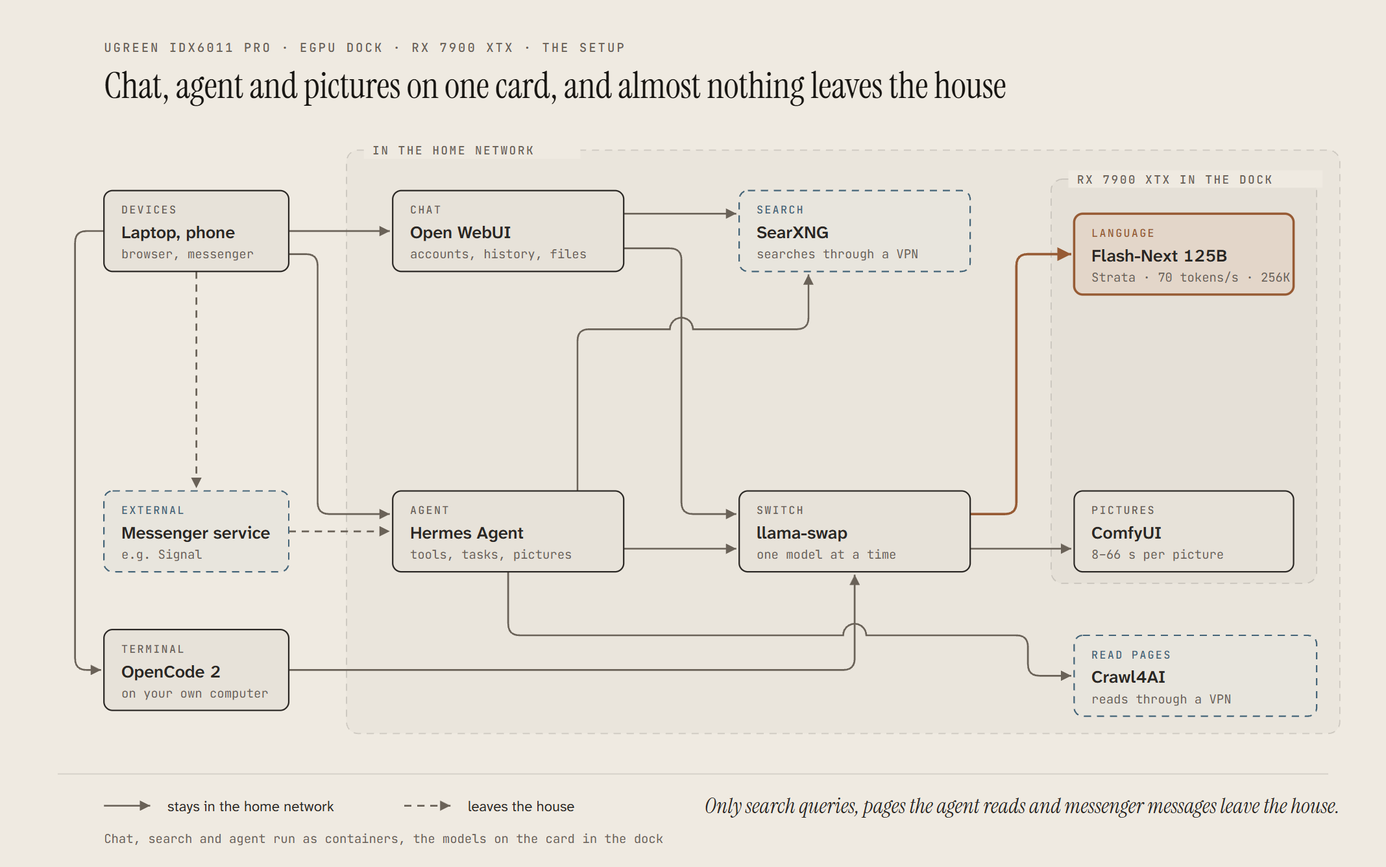
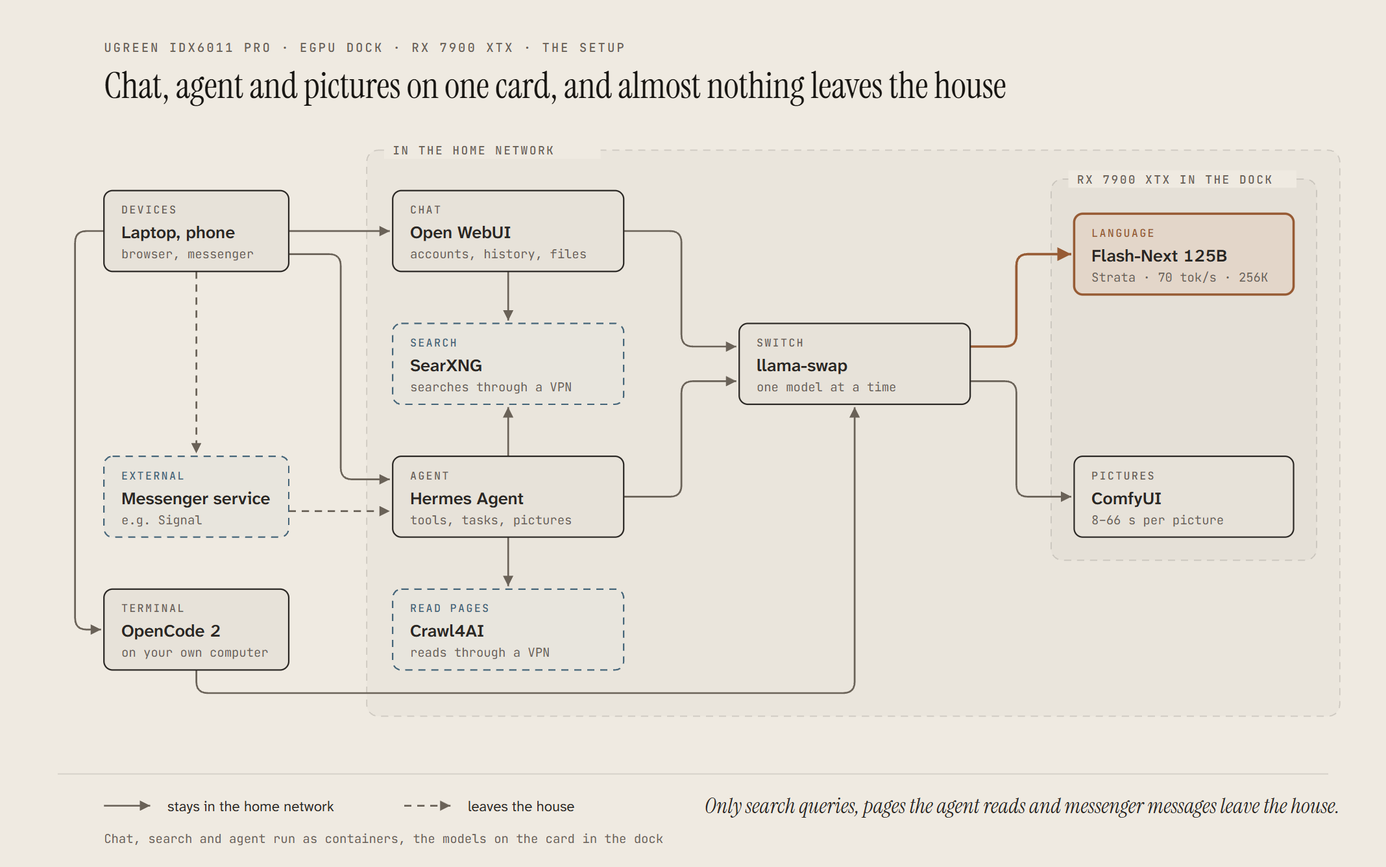
Setup chart redrawn on a grid: search and web reader sit next to the front ends that use them, no line crosses another

diff --git a/bilder/html/aufbau-en.html b/bilder/html/aufbau-en.html
@@ -23,75 +23,75 @@
       <text x="72.0" y="36.0" fill="#6a6258" font-size="8.5" font-family="'JetBrains Mono', Consolas, monospace" font-weight="500" letter-spacing="0.16em">UGREEN IDX6011 PRO · EGPU DOCK · RX 7900 XTX · THE SETUP</text>
       <text x="72.0" y="68.0" fill="#171512" font-size="25" font-family="'Instrument Serif', Georgia, serif">Chat, agent and pictures on one card, and almost nothing leaves the house</text>
       <defs><marker id="pf-en" markerWidth="8" markerHeight="8" refX="7" refY="4" orient="auto"><path d="M1,1 L7,4 L1,7 z" fill="#6a6258"/></marker><marker id="pf-en-a" markerWidth="8" markerHeight="8" refX="7" refY="4" orient="auto"><path d="M1,1 L7,4 L1,7 z" fill="#975b34"/></marker></defs>
-      <rect x="240" y="104" width="688" height="404" rx="8" fill="#2a2724" fill-opacity="0.025" stroke="#2a2724" stroke-opacity="0.16" stroke-width="0.8" stroke-dasharray="5,4"/>
-      <rect x="252" y="98" width="150" height="12" fill="#efeae1"/>
-      <text x="258.0" y="107.0" fill="#6a6258" font-size="8" font-family="'JetBrains Mono', Consolas, monospace" font-weight="500" letter-spacing="0.14em">IN THE HOME NETWORK</text>
-      <rect x="728" y="124" width="184" height="280" rx="8" fill="#2a2724" fill-opacity="0.025" stroke="#2a2724" stroke-opacity="0.16" stroke-width="0.8" stroke-dasharray="5,4"/>
-      <rect x="740" y="118" width="176" height="12" fill="#efeae1"/>
+      <rect x="254" y="104" width="674" height="392" rx="8" fill="#2a2724" fill-opacity="0.025" stroke="#2a2724" stroke-opacity="0.16" stroke-width="0.8" stroke-dasharray="5,4"/>
+      <rect x="266" y="98" width="150" height="12" fill="#efeae1"/>
+      <text x="272.0" y="107.0" fill="#6a6258" font-size="8" font-family="'JetBrains Mono', Consolas, monospace" font-weight="500" letter-spacing="0.14em">IN THE HOME NETWORK</text>
+      <rect x="728" y="124" width="184" height="264" rx="8" fill="#2a2724" fill-opacity="0.025" stroke="#2a2724" stroke-opacity="0.16" stroke-width="0.8" stroke-dasharray="5,4"/>
+      <rect x="740" y="118" width="158" height="12" fill="#efeae1"/>
       <text x="746.0" y="127.0" fill="#6a6258" font-size="8" font-family="'JetBrains Mono', Consolas, monospace" font-weight="500" letter-spacing="0.14em">RX 7900 XTX IN THE DOCK</text>
       <path d="M 200,160 H 270" fill="none" stroke="#6a6258" stroke-width="1.2" marker-end="url(#pf-en)"/>
-      <path d="M 136,188 V 338" fill="none" stroke="#6a6258" stroke-width="1.2" stroke-dasharray="5,4" marker-end="url(#pf-en)"/>
-      <path d="M 200,176 H 212 Q 220,176 220,184 V 348 Q 220,356 228,356 H 270" fill="none" stroke="#6a6258" stroke-width="1.2" marker-end="url(#pf-en)"/>
-      <path d="M 200,368 H 270" fill="none" stroke="#6a6258" stroke-width="1.2" stroke-dasharray="5,4" marker-end="url(#pf-en)"/>
-      <path d="M 432,148 H 510" fill="none" stroke="#6a6258" stroke-width="1.2" marker-end="url(#pf-en)"/>
-      <path d="M 400,340 V 236 Q 400,228 408,228 H 464 a 8,8 0 0,1 16,0 H 552 Q 560,228 560,220 V 190" fill="none" stroke="#6a6258" stroke-width="1.2" marker-end="url(#pf-en)"/>
-      <path d="M 432,172 H 464 Q 472,172 472,180 V 348 Q 472,356 480,356 H 510" fill="none" stroke="#6a6258" stroke-width="1.2" marker-end="url(#pf-en)"/>
-      <path d="M 432,380 H 510" fill="none" stroke="#6a6258" stroke-width="1.2" marker-end="url(#pf-en)"/>
-      <path d="M 672,356 H 696 Q 704,356 704,348 V 184 Q 704,176 712,176 H 742" fill="none" stroke="#975b34" stroke-width="1.6" marker-end="url(#pf-en-a)"/>
-      <path d="M 672,380 H 742" fill="none" stroke="#6a6258" stroke-width="1.2" marker-end="url(#pf-en)"/>
-      <path d="M 72,160 H 60 Q 52,160 52,168 V 456 Q 52,464 60,464 H 70" fill="none" stroke="#6a6258" stroke-width="1.2" marker-end="url(#pf-en)"/>
-      <path d="M 200,464 H 584 Q 592,464 592,456 V 398" fill="none" stroke="#6a6258" stroke-width="1.2" marker-end="url(#pf-en)"/>
-      <path d="M 352,396 V 432 Q 352,440 360,440 H 584 a 8,8 0 0,1 16,0 H 704 Q 712,440 712,448 V 460 Q 712,468 720,468 H 742" fill="none" stroke="#6a6258" stroke-width="1.2" marker-end="url(#pf-en)"/>
+      <path d="M 200,176 H 228 Q 236,176 236,184 V 324 Q 236,332 244,332 H 270" fill="none" stroke="#6a6258" stroke-width="1.2" marker-end="url(#pf-en)"/>
+      <path d="M 136,188 V 314" fill="none" stroke="#6a6258" stroke-width="1.2" stroke-dasharray="5,4" marker-end="url(#pf-en)"/>
+      <path d="M 200,354 H 270" fill="none" stroke="#6a6258" stroke-width="1.2" stroke-dasharray="5,4" marker-end="url(#pf-en)"/>
+      <path d="M 72,160 H 60 Q 52,160 52,168 V 428 Q 52,436 60,436 H 70" fill="none" stroke="#6a6258" stroke-width="1.2" marker-end="url(#pf-en)"/>
+      <path d="M 352,188 V 222" fill="none" stroke="#6a6258" stroke-width="1.2" marker-end="url(#pf-en)"/>
+      <path d="M 352,316 V 282" fill="none" stroke="#6a6258" stroke-width="1.2" marker-end="url(#pf-en)"/>
+      <path d="M 352,372 V 406" fill="none" stroke="#6a6258" stroke-width="1.2" marker-end="url(#pf-en)"/>
+      <path d="M 432,160 H 464 Q 472,160 472,168 V 232 Q 472,240 480,240 H 510" fill="none" stroke="#6a6258" stroke-width="1.2" marker-end="url(#pf-en)"/>
+      <path d="M 432,344 H 464 Q 472,344 472,336 V 272 Q 472,264 480,264 H 510" fill="none" stroke="#6a6258" stroke-width="1.2" marker-end="url(#pf-en)"/>
+      <path d="M 136,464 V 472 Q 136,480 144,480 H 584 Q 592,480 592,472 V 282" fill="none" stroke="#6a6258" stroke-width="1.2" marker-end="url(#pf-en)"/>
+      <path d="M 672,240 H 696 Q 704,240 704,232 V 184 Q 704,176 712,176 H 742" fill="none" stroke="#975b34" stroke-width="1.6" marker-end="url(#pf-en-a)"/>
+      <path d="M 672,264 H 696 Q 704,264 704,272 V 336 Q 704,344 712,344 H 742" fill="none" stroke="#6a6258" stroke-width="1.2" marker-end="url(#pf-en)"/>
       <rect x="72" y="132" width="128" height="56" rx="6" fill="#efeae1"/>
       <rect x="72" y="132" width="128" height="56" rx="6" fill="#2a2724" fill-opacity="0.04" stroke="#2a2724" stroke-width="1"/>
       <text x="84.0" y="148.0" fill="#6a6258" font-size="7.5" font-family="'JetBrains Mono', Consolas, monospace" font-weight="500" letter-spacing="0.14em">DEVICES</text>
       <text x="84.0" y="165.0" fill="#2a2724" font-size="12" font-family="'Atkinson Hyperlegible Next', 'Segoe UI', sans-serif" font-weight="600">Laptop, phone</text>
       <text x="84.0" y="179.0" fill="#6a6258" font-size="8.5" font-family="'JetBrains Mono', Consolas, monospace">browser, messenger</text>
-      <rect x="72" y="340" width="128" height="56" rx="6" fill="#efeae1"/>
-      <rect x="72" y="340" width="128" height="56" rx="6" fill="#456579" fill-opacity="0.04" stroke="#456579" stroke-width="1" stroke-dasharray="5,4"/>
-      <text x="84.0" y="356.0" fill="#456579" font-size="7.5" font-family="'JetBrains Mono', Consolas, monospace" font-weight="500" letter-spacing="0.14em">EXTERNAL</text>
-      <text x="84.0" y="373.0" fill="#2a2724" font-size="12" font-family="'Atkinson Hyperlegible Next', 'Segoe UI', sans-serif" font-weight="600">Messenger service</text>
-      <text x="84.0" y="387.0" fill="#6a6258" font-size="8.5" font-family="'JetBrains Mono', Consolas, monospace">e.g. Signal</text>
-      <rect x="72" y="436" width="128" height="56" rx="6" fill="#efeae1"/>
-      <rect x="72" y="436" width="128" height="56" rx="6" fill="#2a2724" fill-opacity="0.04" stroke="#2a2724" stroke-width="1"/>
-      <text x="84.0" y="452.0" fill="#6a6258" font-size="7.5" font-family="'JetBrains Mono', Consolas, monospace" font-weight="500" letter-spacing="0.14em">TERMINAL</text>
-      <text x="84.0" y="469.0" fill="#2a2724" font-size="12" font-family="'Atkinson Hyperlegible Next', 'Segoe UI', sans-serif" font-weight="600">OpenCode 2</text>
-      <text x="84.0" y="483.0" fill="#6a6258" font-size="8.5" font-family="'JetBrains Mono', Consolas, monospace">on your own computer</text>
+      <rect x="72" y="316" width="128" height="56" rx="6" fill="#efeae1"/>
+      <rect x="72" y="316" width="128" height="56" rx="6" fill="#456579" fill-opacity="0.04" stroke="#456579" stroke-width="1" stroke-dasharray="5,4"/>
+      <text x="84.0" y="332.0" fill="#456579" font-size="7.5" font-family="'JetBrains Mono', Consolas, monospace" font-weight="500" letter-spacing="0.14em">EXTERNAL</text>
+      <text x="84.0" y="349.0" fill="#2a2724" font-size="12" font-family="'Atkinson Hyperlegible Next', 'Segoe UI', sans-serif" font-weight="600">Messenger service</text>
+      <text x="84.0" y="363.0" fill="#6a6258" font-size="8.5" font-family="'JetBrains Mono', Consolas, monospace">e.g. Signal</text>
+      <rect x="72" y="408" width="128" height="56" rx="6" fill="#efeae1"/>
+      <rect x="72" y="408" width="128" height="56" rx="6" fill="#2a2724" fill-opacity="0.04" stroke="#2a2724" stroke-width="1"/>
+      <text x="84.0" y="424.0" fill="#6a6258" font-size="7.5" font-family="'JetBrains Mono', Consolas, monospace" font-weight="500" letter-spacing="0.14em">TERMINAL</text>
+      <text x="84.0" y="441.0" fill="#2a2724" font-size="12" font-family="'Atkinson Hyperlegible Next', 'Segoe UI', sans-serif" font-weight="600">OpenCode 2</text>
+      <text x="84.0" y="455.0" fill="#6a6258" font-size="8.5" font-family="'JetBrains Mono', Consolas, monospace">on your own computer</text>
       <rect x="272" y="132" width="160" height="56" rx="6" fill="#efeae1"/>
       <rect x="272" y="132" width="160" height="56" rx="6" fill="#2a2724" fill-opacity="0.04" stroke="#2a2724" stroke-width="1"/>
       <text x="284.0" y="148.0" fill="#6a6258" font-size="7.5" font-family="'JetBrains Mono', Consolas, monospace" font-weight="500" letter-spacing="0.14em">CHAT</text>
       <text x="284.0" y="165.0" fill="#2a2724" font-size="12" font-family="'Atkinson Hyperlegible Next', 'Segoe UI', sans-serif" font-weight="600">Open WebUI</text>
       <text x="284.0" y="179.0" fill="#6a6258" font-size="8.5" font-family="'JetBrains Mono', Consolas, monospace">accounts, history, files</text>
-      <rect x="512" y="132" width="160" height="56" rx="6" fill="#efeae1"/>
-      <rect x="512" y="132" width="160" height="56" rx="6" fill="#456579" fill-opacity="0.04" stroke="#456579" stroke-width="1" stroke-dasharray="5,4"/>
-      <text x="524.0" y="148.0" fill="#456579" font-size="7.5" font-family="'JetBrains Mono', Consolas, monospace" font-weight="500" letter-spacing="0.14em">SEARCH</text>
-      <text x="524.0" y="165.0" fill="#2a2724" font-size="12" font-family="'Atkinson Hyperlegible Next', 'Segoe UI', sans-serif" font-weight="600">SearXNG</text>
-      <text x="524.0" y="179.0" fill="#6a6258" font-size="8.5" font-family="'JetBrains Mono', Consolas, monospace">searches through a VPN</text>
-      <rect x="272" y="340" width="160" height="56" rx="6" fill="#efeae1"/>
-      <rect x="272" y="340" width="160" height="56" rx="6" fill="#2a2724" fill-opacity="0.04" stroke="#2a2724" stroke-width="1"/>
-      <text x="284.0" y="356.0" fill="#6a6258" font-size="7.5" font-family="'JetBrains Mono', Consolas, monospace" font-weight="500" letter-spacing="0.14em">AGENT</text>
-      <text x="284.0" y="373.0" fill="#2a2724" font-size="12" font-family="'Atkinson Hyperlegible Next', 'Segoe UI', sans-serif" font-weight="600">Hermes Agent</text>
-      <text x="284.0" y="387.0" fill="#6a6258" font-size="8.5" font-family="'JetBrains Mono', Consolas, monospace">tools, tasks, pictures</text>
-      <rect x="512" y="340" width="160" height="56" rx="6" fill="#efeae1"/>
-      <rect x="512" y="340" width="160" height="56" rx="6" fill="#2a2724" fill-opacity="0.04" stroke="#2a2724" stroke-width="1"/>
-      <text x="524.0" y="356.0" fill="#6a6258" font-size="7.5" font-family="'JetBrains Mono', Consolas, monospace" font-weight="500" letter-spacing="0.14em">SWITCH</text>
-      <text x="524.0" y="373.0" fill="#2a2724" font-size="12" font-family="'Atkinson Hyperlegible Next', 'Segoe UI', sans-serif" font-weight="600">llama-swap</text>
-      <text x="524.0" y="387.0" fill="#6a6258" font-size="8.5" font-family="'JetBrains Mono', Consolas, monospace">one model at a time</text>
+      <rect x="272" y="224" width="160" height="56" rx="6" fill="#efeae1"/>
+      <rect x="272" y="224" width="160" height="56" rx="6" fill="#456579" fill-opacity="0.04" stroke="#456579" stroke-width="1" stroke-dasharray="5,4"/>
+      <text x="284.0" y="240.0" fill="#456579" font-size="7.5" font-family="'JetBrains Mono', Consolas, monospace" font-weight="500" letter-spacing="0.14em">SEARCH</text>
+      <text x="284.0" y="257.0" fill="#2a2724" font-size="12" font-family="'Atkinson Hyperlegible Next', 'Segoe UI', sans-serif" font-weight="600">SearXNG</text>
+      <text x="284.0" y="271.0" fill="#6a6258" font-size="8.5" font-family="'JetBrains Mono', Consolas, monospace">searches through a VPN</text>
+      <rect x="272" y="316" width="160" height="56" rx="6" fill="#efeae1"/>
+      <rect x="272" y="316" width="160" height="56" rx="6" fill="#2a2724" fill-opacity="0.04" stroke="#2a2724" stroke-width="1"/>
+      <text x="284.0" y="332.0" fill="#6a6258" font-size="7.5" font-family="'JetBrains Mono', Consolas, monospace" font-weight="500" letter-spacing="0.14em">AGENT</text>
+      <text x="284.0" y="349.0" fill="#2a2724" font-size="12" font-family="'Atkinson Hyperlegible Next', 'Segoe UI', sans-serif" font-weight="600">Hermes Agent</text>
+      <text x="284.0" y="363.0" fill="#6a6258" font-size="8.5" font-family="'JetBrains Mono', Consolas, monospace">tools, tasks, pictures</text>
+      <rect x="272" y="408" width="160" height="56" rx="6" fill="#efeae1"/>
+      <rect x="272" y="408" width="160" height="56" rx="6" fill="#456579" fill-opacity="0.04" stroke="#456579" stroke-width="1" stroke-dasharray="5,4"/>
+      <text x="284.0" y="424.0" fill="#456579" font-size="7.5" font-family="'JetBrains Mono', Consolas, monospace" font-weight="500" letter-spacing="0.14em">READ PAGES</text>
+      <text x="284.0" y="441.0" fill="#2a2724" font-size="12" font-family="'Atkinson Hyperlegible Next', 'Segoe UI', sans-serif" font-weight="600">Crawl4AI</text>
+      <text x="284.0" y="455.0" fill="#6a6258" font-size="8.5" font-family="'JetBrains Mono', Consolas, monospace">reads through a VPN</text>
+      <rect x="512" y="224" width="160" height="56" rx="6" fill="#efeae1"/>
+      <rect x="512" y="224" width="160" height="56" rx="6" fill="#2a2724" fill-opacity="0.04" stroke="#2a2724" stroke-width="1"/>
+      <text x="524.0" y="240.0" fill="#6a6258" font-size="7.5" font-family="'JetBrains Mono', Consolas, monospace" font-weight="500" letter-spacing="0.14em">SWITCH</text>
+      <text x="524.0" y="257.0" fill="#2a2724" font-size="12" font-family="'Atkinson Hyperlegible Next', 'Segoe UI', sans-serif" font-weight="600">llama-swap</text>
+      <text x="524.0" y="271.0" fill="#6a6258" font-size="8.5" font-family="'JetBrains Mono', Consolas, monospace">one model at a time</text>
       <rect x="744" y="148" width="152" height="56" rx="6" fill="#efeae1"/>
       <rect x="744" y="148" width="152" height="56" rx="6" fill="#975b34" fill-opacity="0.14" stroke="#975b34" stroke-width="1.6"/>
       <text x="756.0" y="164.0" fill="#975b34" font-size="7.5" font-family="'JetBrains Mono', Consolas, monospace" font-weight="500" letter-spacing="0.14em">LANGUAGE</text>
       <text x="756.0" y="181.0" fill="#2a2724" font-size="12" font-family="'Atkinson Hyperlegible Next', 'Segoe UI', sans-serif" font-weight="600">Flash-Next 125B</text>
-      <text x="756.0" y="195.0" fill="#6a6258" font-size="8.5" font-family="'JetBrains Mono', Consolas, monospace">Strata · 70 tokens/s · 256K</text>
-      <rect x="744" y="340" width="152" height="56" rx="6" fill="#efeae1"/>
-      <rect x="744" y="340" width="152" height="56" rx="6" fill="#2a2724" fill-opacity="0.04" stroke="#2a2724" stroke-width="1"/>
-      <text x="756.0" y="356.0" fill="#6a6258" font-size="7.5" font-family="'JetBrains Mono', Consolas, monospace" font-weight="500" letter-spacing="0.14em">PICTURES</text>
-      <text x="756.0" y="373.0" fill="#2a2724" font-size="12" font-family="'Atkinson Hyperlegible Next', 'Segoe UI', sans-serif" font-weight="600">ComfyUI</text>
-      <text x="756.0" y="387.0" fill="#6a6258" font-size="8.5" font-family="'JetBrains Mono', Consolas, monospace">8–66 s per picture</text>
-      <rect x="744" y="440" width="168" height="56" rx="6" fill="#efeae1"/>
-      <rect x="744" y="440" width="168" height="56" rx="6" fill="#456579" fill-opacity="0.04" stroke="#456579" stroke-width="1" stroke-dasharray="5,4"/>
-      <text x="756.0" y="456.0" fill="#456579" font-size="7.5" font-family="'JetBrains Mono', Consolas, monospace" font-weight="500" letter-spacing="0.14em">READ PAGES</text>
-      <text x="756.0" y="473.0" fill="#2a2724" font-size="12" font-family="'Atkinson Hyperlegible Next', 'Segoe UI', sans-serif" font-weight="600">Crawl4AI</text>
-      <text x="756.0" y="487.0" fill="#6a6258" font-size="8.5" font-family="'JetBrains Mono', Consolas, monospace">reads through a VPN</text>
+      <text x="756.0" y="195.0" fill="#6a6258" font-size="8.5" font-family="'JetBrains Mono', Consolas, monospace">Strata · 70 tok/s · 256K</text>
+      <rect x="744" y="316" width="152" height="56" rx="6" fill="#efeae1"/>
+      <rect x="744" y="316" width="152" height="56" rx="6" fill="#2a2724" fill-opacity="0.04" stroke="#2a2724" stroke-width="1"/>
+      <text x="756.0" y="332.0" fill="#6a6258" font-size="7.5" font-family="'JetBrains Mono', Consolas, monospace" font-weight="500" letter-spacing="0.14em">PICTURES</text>
+      <text x="756.0" y="349.0" fill="#2a2724" font-size="12" font-family="'Atkinson Hyperlegible Next', 'Segoe UI', sans-serif" font-weight="600">ComfyUI</text>
+      <text x="756.0" y="363.0" fill="#6a6258" font-size="8.5" font-family="'JetBrains Mono', Consolas, monospace">8–66 s per picture</text>
       <line x1="40.0" y1="536.0" x2="920.0" y2="536.0" stroke="#2a2724" stroke-opacity="0.14" stroke-width="0.8"/>
       <path d="M 72,558 H 104" fill="none" stroke="#6a6258" stroke-width="1.2" marker-end="url(#pf-en)"/>
       <text x="116.0" y="562.0" fill="#2a2724" font-size="10" font-family="'Atkinson Hyperlegible Next', 'Segoe UI', sans-serif">stays in the home network</text>

diff --git a/bilder/html/aufbau-de.html b/bilder/html/aufbau-de.html
@@ -23,75 +23,75 @@
       <text x="72.0" y="36.0" fill="#6a6258" font-size="8.5" font-family="'JetBrains Mono', Consolas, monospace" font-weight="500" letter-spacing="0.16em">UGREEN IDX6011 PRO · EGPU-DOCK · RX 7900 XTX · DER AUFBAU</text>
       <text x="72.0" y="68.0" fill="#171512" font-size="25" font-family="'Instrument Serif', Georgia, serif">Chat, Agent und Bilder auf einer Karte, und fast nichts verlässt das Haus</text>
       <defs><marker id="pf-de" markerWidth="8" markerHeight="8" refX="7" refY="4" orient="auto"><path d="M1,1 L7,4 L1,7 z" fill="#6a6258"/></marker><marker id="pf-de-a" markerWidth="8" markerHeight="8" refX="7" refY="4" orient="auto"><path d="M1,1 L7,4 L1,7 z" fill="#975b34"/></marker></defs>
-      <rect x="240" y="104" width="688" height="404" rx="8" fill="#2a2724" fill-opacity="0.025" stroke="#2a2724" stroke-opacity="0.16" stroke-width="0.8" stroke-dasharray="5,4"/>
-      <rect x="252" y="98" width="96" height="12" fill="#efeae1"/>
-      <text x="258.0" y="107.0" fill="#6a6258" font-size="8" font-family="'JetBrains Mono', Consolas, monospace" font-weight="500" letter-spacing="0.14em">IM HEIMNETZ</text>
-      <rect x="728" y="124" width="184" height="280" rx="8" fill="#2a2724" fill-opacity="0.025" stroke="#2a2724" stroke-opacity="0.16" stroke-width="0.8" stroke-dasharray="5,4"/>
+      <rect x="254" y="104" width="674" height="392" rx="8" fill="#2a2724" fill-opacity="0.025" stroke="#2a2724" stroke-opacity="0.16" stroke-width="0.8" stroke-dasharray="5,4"/>
+      <rect x="266" y="98" width="96" height="12" fill="#efeae1"/>
+      <text x="272.0" y="107.0" fill="#6a6258" font-size="8" font-family="'JetBrains Mono', Consolas, monospace" font-weight="500" letter-spacing="0.14em">IM HEIMNETZ</text>
+      <rect x="728" y="124" width="184" height="264" rx="8" fill="#2a2724" fill-opacity="0.025" stroke="#2a2724" stroke-opacity="0.16" stroke-width="0.8" stroke-dasharray="5,4"/>
       <rect x="740" y="118" width="152" height="12" fill="#efeae1"/>
       <text x="746.0" y="127.0" fill="#6a6258" font-size="8" font-family="'JetBrains Mono', Consolas, monospace" font-weight="500" letter-spacing="0.14em">RX 7900 XTX IM DOCK</text>
       <path d="M 200,160 H 270" fill="none" stroke="#6a6258" stroke-width="1.2" marker-end="url(#pf-de)"/>
-      <path d="M 136,188 V 338" fill="none" stroke="#6a6258" stroke-width="1.2" stroke-dasharray="5,4" marker-end="url(#pf-de)"/>
-      <path d="M 200,176 H 212 Q 220,176 220,184 V 348 Q 220,356 228,356 H 270" fill="none" stroke="#6a6258" stroke-width="1.2" marker-end="url(#pf-de)"/>
-      <path d="M 200,368 H 270" fill="none" stroke="#6a6258" stroke-width="1.2" stroke-dasharray="5,4" marker-end="url(#pf-de)"/>
-      <path d="M 432,148 H 510" fill="none" stroke="#6a6258" stroke-width="1.2" marker-end="url(#pf-de)"/>
-      <path d="M 400,340 V 236 Q 400,228 408,228 H 464 a 8,8 0 0,1 16,0 H 552 Q 560,228 560,220 V 190" fill="none" stroke="#6a6258" stroke-width="1.2" marker-end="url(#pf-de)"/>
-      <path d="M 432,172 H 464 Q 472,172 472,180 V 348 Q 472,356 480,356 H 510" fill="none" stroke="#6a6258" stroke-width="1.2" marker-end="url(#pf-de)"/>
-      <path d="M 432,380 H 510" fill="none" stroke="#6a6258" stroke-width="1.2" marker-end="url(#pf-de)"/>
-      <path d="M 672,356 H 696 Q 704,356 704,348 V 184 Q 704,176 712,176 H 742" fill="none" stroke="#975b34" stroke-width="1.6" marker-end="url(#pf-de-a)"/>
-      <path d="M 672,380 H 742" fill="none" stroke="#6a6258" stroke-width="1.2" marker-end="url(#pf-de)"/>
-      <path d="M 72,160 H 60 Q 52,160 52,168 V 456 Q 52,464 60,464 H 70" fill="none" stroke="#6a6258" stroke-width="1.2" marker-end="url(#pf-de)"/>
-      <path d="M 200,464 H 584 Q 592,464 592,456 V 398" fill="none" stroke="#6a6258" stroke-width="1.2" marker-end="url(#pf-de)"/>
-      <path d="M 352,396 V 432 Q 352,440 360,440 H 584 a 8,8 0 0,1 16,0 H 704 Q 712,440 712,448 V 460 Q 712,468 720,468 H 742" fill="none" stroke="#6a6258" stroke-width="1.2" marker-end="url(#pf-de)"/>
+      <path d="M 200,176 H 228 Q 236,176 236,184 V 324 Q 236,332 244,332 H 270" fill="none" stroke="#6a6258" stroke-width="1.2" marker-end="url(#pf-de)"/>
+      <path d="M 136,188 V 314" fill="none" stroke="#6a6258" stroke-width="1.2" stroke-dasharray="5,4" marker-end="url(#pf-de)"/>
+      <path d="M 200,354 H 270" fill="none" stroke="#6a6258" stroke-width="1.2" stroke-dasharray="5,4" marker-end="url(#pf-de)"/>
+      <path d="M 72,160 H 60 Q 52,160 52,168 V 428 Q 52,436 60,436 H 70" fill="none" stroke="#6a6258" stroke-width="1.2" marker-end="url(#pf-de)"/>
+      <path d="M 352,188 V 222" fill="none" stroke="#6a6258" stroke-width="1.2" marker-end="url(#pf-de)"/>
+      <path d="M 352,316 V 282" fill="none" stroke="#6a6258" stroke-width="1.2" marker-end="url(#pf-de)"/>
+      <path d="M 352,372 V 406" fill="none" stroke="#6a6258" stroke-width="1.2" marker-end="url(#pf-de)"/>
+      <path d="M 432,160 H 464 Q 472,160 472,168 V 232 Q 472,240 480,240 H 510" fill="none" stroke="#6a6258" stroke-width="1.2" marker-end="url(#pf-de)"/>
+      <path d="M 432,344 H 464 Q 472,344 472,336 V 272 Q 472,264 480,264 H 510" fill="none" stroke="#6a6258" stroke-width="1.2" marker-end="url(#pf-de)"/>
+      <path d="M 136,464 V 472 Q 136,480 144,480 H 584 Q 592,480 592,472 V 282" fill="none" stroke="#6a6258" stroke-width="1.2" marker-end="url(#pf-de)"/>
+      <path d="M 672,240 H 696 Q 704,240 704,232 V 184 Q 704,176 712,176 H 742" fill="none" stroke="#975b34" stroke-width="1.6" marker-end="url(#pf-de-a)"/>
+      <path d="M 672,264 H 696 Q 704,264 704,272 V 336 Q 704,344 712,344 H 742" fill="none" stroke="#6a6258" stroke-width="1.2" marker-end="url(#pf-de)"/>
       <rect x="72" y="132" width="128" height="56" rx="6" fill="#efeae1"/>
       <rect x="72" y="132" width="128" height="56" rx="6" fill="#2a2724" fill-opacity="0.04" stroke="#2a2724" stroke-width="1"/>
       <text x="84.0" y="148.0" fill="#6a6258" font-size="7.5" font-family="'JetBrains Mono', Consolas, monospace" font-weight="500" letter-spacing="0.14em">GERÄTE</text>
       <text x="84.0" y="165.0" fill="#2a2724" font-size="12" font-family="'Atkinson Hyperlegible Next', 'Segoe UI', sans-serif" font-weight="600">Laptop, Handy</text>
       <text x="84.0" y="179.0" fill="#6a6258" font-size="8.5" font-family="'JetBrains Mono', Consolas, monospace">Browser, Messenger</text>
-      <rect x="72" y="340" width="128" height="56" rx="6" fill="#efeae1"/>
-      <rect x="72" y="340" width="128" height="56" rx="6" fill="#456579" fill-opacity="0.04" stroke="#456579" stroke-width="1" stroke-dasharray="5,4"/>
-      <text x="84.0" y="356.0" fill="#456579" font-size="7.5" font-family="'JetBrains Mono', Consolas, monospace" font-weight="500" letter-spacing="0.14em">EXTERN</text>
-      <text x="84.0" y="373.0" fill="#2a2724" font-size="12" font-family="'Atkinson Hyperlegible Next', 'Segoe UI', sans-serif" font-weight="600">Messenger-Dienst</text>
-      <text x="84.0" y="387.0" fill="#6a6258" font-size="8.5" font-family="'JetBrains Mono', Consolas, monospace">z. B. Signal</text>
-      <rect x="72" y="436" width="128" height="56" rx="6" fill="#efeae1"/>
-      <rect x="72" y="436" width="128" height="56" rx="6" fill="#2a2724" fill-opacity="0.04" stroke="#2a2724" stroke-width="1"/>
-      <text x="84.0" y="452.0" fill="#6a6258" font-size="7.5" font-family="'JetBrains Mono', Consolas, monospace" font-weight="500" letter-spacing="0.14em">TERMINAL</text>
-      <text x="84.0" y="469.0" fill="#2a2724" font-size="12" font-family="'Atkinson Hyperlegible Next', 'Segoe UI', sans-serif" font-weight="600">OpenCode 2</text>
-      <text x="84.0" y="483.0" fill="#6a6258" font-size="8.5" font-family="'JetBrains Mono', Consolas, monospace">am eigenen Rechner</text>
+      <rect x="72" y="316" width="128" height="56" rx="6" fill="#efeae1"/>
+      <rect x="72" y="316" width="128" height="56" rx="6" fill="#456579" fill-opacity="0.04" stroke="#456579" stroke-width="1" stroke-dasharray="5,4"/>
+      <text x="84.0" y="332.0" fill="#456579" font-size="7.5" font-family="'JetBrains Mono', Consolas, monospace" font-weight="500" letter-spacing="0.14em">EXTERN</text>
+      <text x="84.0" y="349.0" fill="#2a2724" font-size="12" font-family="'Atkinson Hyperlegible Next', 'Segoe UI', sans-serif" font-weight="600">Messenger-Dienst</text>
+      <text x="84.0" y="363.0" fill="#6a6258" font-size="8.5" font-family="'JetBrains Mono', Consolas, monospace">z. B. Signal</text>
+      <rect x="72" y="408" width="128" height="56" rx="6" fill="#efeae1"/>
+      <rect x="72" y="408" width="128" height="56" rx="6" fill="#2a2724" fill-opacity="0.04" stroke="#2a2724" stroke-width="1"/>
+      <text x="84.0" y="424.0" fill="#6a6258" font-size="7.5" font-family="'JetBrains Mono', Consolas, monospace" font-weight="500" letter-spacing="0.14em">TERMINAL</text>
+      <text x="84.0" y="441.0" fill="#2a2724" font-size="12" font-family="'Atkinson Hyperlegible Next', 'Segoe UI', sans-serif" font-weight="600">OpenCode 2</text>
+      <text x="84.0" y="455.0" fill="#6a6258" font-size="8.5" font-family="'JetBrains Mono', Consolas, monospace">am eigenen Rechner</text>
       <rect x="272" y="132" width="160" height="56" rx="6" fill="#efeae1"/>
       <rect x="272" y="132" width="160" height="56" rx="6" fill="#2a2724" fill-opacity="0.04" stroke="#2a2724" stroke-width="1"/>
       <text x="284.0" y="148.0" fill="#6a6258" font-size="7.5" font-family="'JetBrains Mono', Consolas, monospace" font-weight="500" letter-spacing="0.14em">CHAT</text>
       <text x="284.0" y="165.0" fill="#2a2724" font-size="12" font-family="'Atkinson Hyperlegible Next', 'Segoe UI', sans-serif" font-weight="600">Open WebUI</text>
       <text x="284.0" y="179.0" fill="#6a6258" font-size="8.5" font-family="'JetBrains Mono', Consolas, monospace">Konten, Verlauf, Dateien</text>
-      <rect x="512" y="132" width="160" height="56" rx="6" fill="#efeae1"/>
-      <rect x="512" y="132" width="160" height="56" rx="6" fill="#456579" fill-opacity="0.04" stroke="#456579" stroke-width="1" stroke-dasharray="5,4"/>
-      <text x="524.0" y="148.0" fill="#456579" font-size="7.5" font-family="'JetBrains Mono', Consolas, monospace" font-weight="500" letter-spacing="0.14em">SUCHE</text>
-      <text x="524.0" y="165.0" fill="#2a2724" font-size="12" font-family="'Atkinson Hyperlegible Next', 'Segoe UI', sans-serif" font-weight="600">SearXNG</text>
-      <text x="524.0" y="179.0" fill="#6a6258" font-size="8.5" font-family="'JetBrains Mono', Consolas, monospace">sucht über ein VPN im Netz</text>
-      <rect x="272" y="340" width="160" height="56" rx="6" fill="#efeae1"/>
-      <rect x="272" y="340" width="160" height="56" rx="6" fill="#2a2724" fill-opacity="0.04" stroke="#2a2724" stroke-width="1"/>
-      <text x="284.0" y="356.0" fill="#6a6258" font-size="7.5" font-family="'JetBrains Mono', Consolas, monospace" font-weight="500" letter-spacing="0.14em">AGENT</text>
-      <text x="284.0" y="373.0" fill="#2a2724" font-size="12" font-family="'Atkinson Hyperlegible Next', 'Segoe UI', sans-serif" font-weight="600">Hermes Agent</text>
-      <text x="284.0" y="387.0" fill="#6a6258" font-size="8.5" font-family="'JetBrains Mono', Consolas, monospace">Werkzeuge, Aufgaben, Bilder</text>
-      <rect x="512" y="340" width="160" height="56" rx="6" fill="#efeae1"/>
-      <rect x="512" y="340" width="160" height="56" rx="6" fill="#2a2724" fill-opacity="0.04" stroke="#2a2724" stroke-width="1"/>
-      <text x="524.0" y="356.0" fill="#6a6258" font-size="7.5" font-family="'JetBrains Mono', Consolas, monospace" font-weight="500" letter-spacing="0.14em">WEICHE</text>
-      <text x="524.0" y="373.0" fill="#2a2724" font-size="12" font-family="'Atkinson Hyperlegible Next', 'Segoe UI', sans-serif" font-weight="600">llama-swap</text>
-      <text x="524.0" y="387.0" fill="#6a6258" font-size="8.5" font-family="'JetBrains Mono', Consolas, monospace">ein Modell zur Zeit</text>
+      <rect x="272" y="224" width="160" height="56" rx="6" fill="#efeae1"/>
+      <rect x="272" y="224" width="160" height="56" rx="6" fill="#456579" fill-opacity="0.04" stroke="#456579" stroke-width="1" stroke-dasharray="5,4"/>
+      <text x="284.0" y="240.0" fill="#456579" font-size="7.5" font-family="'JetBrains Mono', Consolas, monospace" font-weight="500" letter-spacing="0.14em">SUCHE</text>
+      <text x="284.0" y="257.0" fill="#2a2724" font-size="12" font-family="'Atkinson Hyperlegible Next', 'Segoe UI', sans-serif" font-weight="600">SearXNG</text>
+      <text x="284.0" y="271.0" fill="#6a6258" font-size="8.5" font-family="'JetBrains Mono', Consolas, monospace">sucht über ein VPN im Netz</text>
+      <rect x="272" y="316" width="160" height="56" rx="6" fill="#efeae1"/>
+      <rect x="272" y="316" width="160" height="56" rx="6" fill="#2a2724" fill-opacity="0.04" stroke="#2a2724" stroke-width="1"/>
+      <text x="284.0" y="332.0" fill="#6a6258" font-size="7.5" font-family="'JetBrains Mono', Consolas, monospace" font-weight="500" letter-spacing="0.14em">AGENT</text>
+      <text x="284.0" y="349.0" fill="#2a2724" font-size="12" font-family="'Atkinson Hyperlegible Next', 'Segoe UI', sans-serif" font-weight="600">Hermes Agent</text>
+      <text x="284.0" y="363.0" fill="#6a6258" font-size="8.5" font-family="'JetBrains Mono', Consolas, monospace">Werkzeuge, Aufgaben, Bilder</text>
+      <rect x="272" y="408" width="160" height="56" rx="6" fill="#efeae1"/>
+      <rect x="272" y="408" width="160" height="56" rx="6" fill="#456579" fill-opacity="0.04" stroke="#456579" stroke-width="1" stroke-dasharray="5,4"/>
+      <text x="284.0" y="424.0" fill="#456579" font-size="7.5" font-family="'JetBrains Mono', Consolas, monospace" font-weight="500" letter-spacing="0.14em">SEITEN LESEN</text>
+      <text x="284.0" y="441.0" fill="#2a2724" font-size="12" font-family="'Atkinson Hyperlegible Next', 'Segoe UI', sans-serif" font-weight="600">Crawl4AI</text>
+      <text x="284.0" y="455.0" fill="#6a6258" font-size="8.5" font-family="'JetBrains Mono', Consolas, monospace">liest über ein VPN im Netz</text>
+      <rect x="512" y="224" width="160" height="56" rx="6" fill="#efeae1"/>
+      <rect x="512" y="224" width="160" height="56" rx="6" fill="#2a2724" fill-opacity="0.04" stroke="#2a2724" stroke-width="1"/>
+      <text x="524.0" y="240.0" fill="#6a6258" font-size="7.5" font-family="'JetBrains Mono', Consolas, monospace" font-weight="500" letter-spacing="0.14em">WEICHE</text>
+      <text x="524.0" y="257.0" fill="#2a2724" font-size="12" font-family="'Atkinson Hyperlegible Next', 'Segoe UI', sans-serif" font-weight="600">llama-swap</text>
+      <text x="524.0" y="271.0" fill="#6a6258" font-size="8.5" font-family="'JetBrains Mono', Consolas, monospace">ein Modell zur Zeit</text>
       <rect x="744" y="148" width="152" height="56" rx="6" fill="#efeae1"/>
       <rect x="744" y="148" width="152" height="56" rx="6" fill="#975b34" fill-opacity="0.14" stroke="#975b34" stroke-width="1.6"/>
       <text x="756.0" y="164.0" fill="#975b34" font-size="7.5" font-family="'JetBrains Mono', Consolas, monospace" font-weight="500" letter-spacing="0.14em">SPRACHE</text>
       <text x="756.0" y="181.0" fill="#2a2724" font-size="12" font-family="'Atkinson Hyperlegible Next', 'Segoe UI', sans-serif" font-weight="600">Flash-Next 125B</text>
       <text x="756.0" y="195.0" fill="#6a6258" font-size="8.5" font-family="'JetBrains Mono', Consolas, monospace">Strata · 70 Token/s · 256K</text>
-      <rect x="744" y="340" width="152" height="56" rx="6" fill="#efeae1"/>
-      <rect x="744" y="340" width="152" height="56" rx="6" fill="#2a2724" fill-opacity="0.04" stroke="#2a2724" stroke-width="1"/>
-      <text x="756.0" y="356.0" fill="#6a6258" font-size="7.5" font-family="'JetBrains Mono', Consolas, monospace" font-weight="500" letter-spacing="0.14em">BILDER</text>
-      <text x="756.0" y="373.0" fill="#2a2724" font-size="12" font-family="'Atkinson Hyperlegible Next', 'Segoe UI', sans-serif" font-weight="600">ComfyUI</text>
-      <text x="756.0" y="387.0" fill="#6a6258" font-size="8.5" font-family="'JetBrains Mono', Consolas, monospace">8–66 s je Bild</text>
-      <rect x="744" y="440" width="168" height="56" rx="6" fill="#efeae1"/>
-      <rect x="744" y="440" width="168" height="56" rx="6" fill="#456579" fill-opacity="0.04" stroke="#456579" stroke-width="1" stroke-dasharray="5,4"/>
-      <text x="756.0" y="456.0" fill="#456579" font-size="7.5" font-family="'JetBrains Mono', Consolas, monospace" font-weight="500" letter-spacing="0.14em">SEITEN LESEN</text>
-      <text x="756.0" y="473.0" fill="#2a2724" font-size="12" font-family="'Atkinson Hyperlegible Next', 'Segoe UI', sans-serif" font-weight="600">Crawl4AI</text>
-      <text x="756.0" y="487.0" fill="#6a6258" font-size="8.5" font-family="'JetBrains Mono', Consolas, monospace">liest über ein VPN im Netz</text>
+      <rect x="744" y="316" width="152" height="56" rx="6" fill="#efeae1"/>
+      <rect x="744" y="316" width="152" height="56" rx="6" fill="#2a2724" fill-opacity="0.04" stroke="#2a2724" stroke-width="1"/>
+      <text x="756.0" y="332.0" fill="#6a6258" font-size="7.5" font-family="'JetBrains Mono', Consolas, monospace" font-weight="500" letter-spacing="0.14em">BILDER</text>
+      <text x="756.0" y="349.0" fill="#2a2724" font-size="12" font-family="'Atkinson Hyperlegible Next', 'Segoe UI', sans-serif" font-weight="600">ComfyUI</text>
+      <text x="756.0" y="363.0" fill="#6a6258" font-size="8.5" font-family="'JetBrains Mono', Consolas, monospace">8–66 s je Bild</text>
       <line x1="40.0" y1="536.0" x2="920.0" y2="536.0" stroke="#2a2724" stroke-opacity="0.14" stroke-width="0.8"/>
       <path d="M 72,558 H 104" fill="none" stroke="#6a6258" stroke-width="1.2" marker-end="url(#pf-de)"/>
       <text x="116.0" y="562.0" fill="#2a2724" font-size="10" font-family="'Atkinson Hyperlegible Next', 'Segoe UI', sans-serif">bleibt im Heimnetz</text>

diff --git a/messen/diagramme.py b/messen/diagramme.py
@@ -1114,33 +1114,36 @@ def aufbau(d, sp):
         s.text(x + 12, y + 33, name, 12, INK, "sans", weight=600)
         s.text(x + 12, y + 47, sub, 8.5, MUTED, "mono")
 
-    zone(240, 104, 688, 404, T("im Heimnetz", "in the home network"), 96 if not en else 150)
-    zone(728, 124, 184, 280, T("RX 7900 XTX im Dock", "RX 7900 XTX in the dock"), 152 if not en else 176)
+    # Raster: Spalte A Geräte, B Oberflächen mit ihren Netz-Werkzeugen, C Weiche, D Karte; vier Zeilen. So kreuzt keine Linie eine andere.
+    A_, B_, C_, D_ = 72, 272, 512, 744
+    r1, r2, r3, r4 = 132, 224, 316, 408
+    zone(254, 104, 674, 392, T("im Heimnetz", "in the home network"), 96 if not en else 150)
+    zone(728, 124, 184, 264, T("RX 7900 XTX im Dock", "RX 7900 XTX in the dock"), 152 if not en else 158)
     # Pfeile zuerst, dann die Knoten
-    pfeil("M 200,160 H 270")                                                     # Geräte -> Open WebUI
-    pfeil("M 136,188 V 338", gestrichelt=True)                                   # Geräte -> Messenger-Dienst
-    pfeil("M 200,176 H 212 Q 220,176 220,184 V 348 Q 220,356 228,356 H 270")     # Geräte -> Hermes direkt (Browser, im Heimnetz)
-    pfeil("M 200,368 H 270", gestrichelt=True)                                   # Messenger-Dienst -> Hermes
-    pfeil("M 432,148 H 510")                                                     # Open WebUI -> SearXNG (die Anfrage bleibt im Heimnetz, SearXNG fragt nach außen)
-    pfeil("M 400,340 V 236 Q 400,228 408,228 H 464 a 8,8 0 0,1 16,0 H 552 Q 560,228 560,220 V 190")  # Hermes -> SearXNG, mit Brücke über die Linie Open WebUI -> llama-swap
-    pfeil("M 432,172 H 464 Q 472,172 472,180 V 348 Q 472,356 480,356 H 510")     # Open WebUI -> llama-swap
-    pfeil("M 432,380 H 510")                                                     # Hermes -> llama-swap
-    pfeil("M 672,356 H 696 Q 704,356 704,348 V 184 Q 704,176 712,176 H 742", fokus=True)  # llama-swap -> Sprachmodell
-    pfeil("M 672,380 H 742")                                                     # llama-swap -> ComfyUI
-    pfeil("M 72,160 H 60 Q 52,160 52,168 V 456 Q 52,464 60,464 H 70")                # Geräte -> OpenCode 2, links am Messenger-Dienst vorbei
-    pfeil("M 200,464 H 584 Q 592,464 592,456 V 398")                             # OpenCode 2 -> llama-swap, unter dem Agenten hindurch
+    pfeil(f"M 200,{r1 + 28} H 270")                                                                     # Geräte -> Open WebUI
+    pfeil(f"M 200,{r1 + 44} H 228 Q 236,{r1 + 44} 236,{r1 + 52} V {r3 + 8} Q 236,{r3 + 16} 244,{r3 + 16} H 270")   # Geräte -> Hermes direkt (Browser, im Heimnetz)
+    pfeil(f"M 136,{r1 + 56} V {r3 - 2}", gestrichelt=True)                                              # Geräte -> Messenger-Dienst
+    pfeil(f"M 200,{r3 + 38} H 270", gestrichelt=True)                                                   # Messenger-Dienst -> Hermes
+    pfeil(f"M 72,{r1 + 28} H 60 Q 52,{r1 + 28} 52,{r1 + 36} V {r4 + 20} Q 52,{r4 + 28} 60,{r4 + 28} H 70")         # Geräte -> OpenCode 2, links außen
+    pfeil(f"M 352,{r1 + 56} V {r2 - 2}")                                                                # Open WebUI -> SearXNG
+    pfeil(f"M 352,{r3} V {r2 + 58}")                                                                    # Hermes -> SearXNG
+    pfeil(f"M 352,{r3 + 56} V {r4 - 2}")                                                                # Hermes -> Crawl4AI, direkt darunter
+    pfeil(f"M 432,{r1 + 28} H 464 Q 472,{r1 + 28} 472,{r1 + 36} V {r2 + 8} Q 472,{r2 + 16} 480,{r2 + 16} H 510")   # Open WebUI -> llama-swap
+    pfeil(f"M 432,{r3 + 28} H 464 Q 472,{r3 + 28} 472,{r3 + 20} V {r2 + 48} Q 472,{r2 + 40} 480,{r2 + 40} H 510")  # Hermes -> llama-swap
+    pfeil(f"M 136,{r4 + 56} V {r4 + 64} Q 136,{r4 + 72} 144,{r4 + 72} H 584 Q 592,{r4 + 72} 592,{r4 + 64} V {r2 + 58}")  # OpenCode 2 -> llama-swap, unten herum
+    pfeil(f"M 672,{r2 + 16} H 696 Q 704,{r2 + 16} 704,{r2 + 8} V 184 Q 704,176 712,176 H 742", fokus=True)        # llama-swap -> Sprachmodell
+    pfeil(f"M 672,{r2 + 40} H 696 Q 704,{r2 + 40} 704,{r2 + 48} V {r3 + 20} Q 704,{r3 + 28} 712,{r3 + 28} H 742")  # llama-swap -> ComfyUI
+    knoten(A_, r1, T("Geräte", "Devices"), T("Laptop, Handy", "Laptop, phone"), T("Browser, Messenger", "browser, messenger"), w=128)
+    knoten(A_, r3, T("extern", "external"), T("Messenger-Dienst", "Messenger service"), T("z. B. Signal", "e.g. Signal"), "extern", w=128)
+    knoten(A_, r4, "Terminal", "OpenCode 2", T("am eigenen Rechner", "on your own computer"), w=128)
+    knoten(B_, r1, "Chat", "Open WebUI", T("Konten, Verlauf, Dateien", "accounts, history, files"))
+    knoten(B_, r2, T("Suche", "Search"), "SearXNG", T("sucht über ein VPN im Netz", "searches through a VPN"), "extern")
+    knoten(B_, r3, "Agent", "Hermes Agent", T("Werkzeuge, Aufgaben, Bilder", "tools, tasks, pictures"))
     # Webleser: seit 19.11.2026 im Heimnetz, nur der Agent ruft ihn; er holt die Seiten über ein VPN (wie SearXNG).
-    pfeil("M 352,396 V 432 Q 352,440 360,440 H 584 a 8,8 0 0,1 16,0 H 704 Q 712,440 712,448 V 460 Q 712,468 720,468 H 742")  # Hermes -> Crawl4AI, Brücke über OpenCode -> llama-swap
-    knoten(72, 132, T("Geräte", "Devices"), T("Laptop, Handy", "Laptop, phone"), T("Browser, Messenger", "browser, messenger"), w=128)
-    knoten(72, 340, T("extern", "external"), T("Messenger-Dienst", "Messenger service"), T("z. B. Signal", "e.g. Signal"), "extern", w=128)
-    knoten(72, 436, "Terminal", "OpenCode 2", T("am eigenen Rechner", "on your own computer"), w=128)
-    knoten(272, 132, "Chat", "Open WebUI", T("Konten, Verlauf, Dateien", "accounts, history, files"))
-    knoten(512, 132, T("Suche", "Search"), "SearXNG", T("sucht über ein VPN im Netz", "searches through a VPN"), "extern")
-    knoten(272, 340, "Agent", "Hermes Agent", T("Werkzeuge, Aufgaben, Bilder", "tools, tasks, pictures"))
-    knoten(512, 340, T("Weiche", "Switch"), "llama-swap", T("ein Modell zur Zeit", "one model at a time"))
-    knoten(744, 148, T("Sprache", "Language"), "Flash-Next 125B", T("Strata · 70 Token/s · 256K", "Strata · 70 tokens/s · 256K"), "fokus", w=152)
-    knoten(744, 340, T("Bilder", "Pictures"), "ComfyUI", T("8–66 s je Bild", "8–66 s per picture"), w=152)
-    knoten(744, 440, T("Seiten lesen", "Read pages"), "Crawl4AI", T("liest über ein VPN im Netz", "reads through a VPN"), "extern", w=168)
+    knoten(B_, r4, T("Seiten lesen", "Read pages"), "Crawl4AI", T("liest über ein VPN im Netz", "reads through a VPN"), "extern")
+    knoten(C_, r2, T("Weiche", "Switch"), "llama-swap", T("ein Modell zur Zeit", "one model at a time"))
+    knoten(D_, 148, T("Sprache", "Language"), "Flash-Next 125B", T("Strata · 70 Token/s · 256K", "Strata · 70 tok/s · 256K"), "fokus", w=152)
+    knoten(D_, r3, T("Bilder", "Pictures"), "ComfyUI", T("8–66 s je Bild", "8–66 s per picture"), w=152)
     y = 536
     s.line(40, y, W - 40, y, 'stroke="#2a2724" stroke-opacity="0.14" stroke-width="0.8"')
     s.roh(f'<path d="M 72,{y + 22} H 104" fill="none" stroke="{MUTED}" stroke-width="1.2" marker-end="url(#{pf})"/>')
